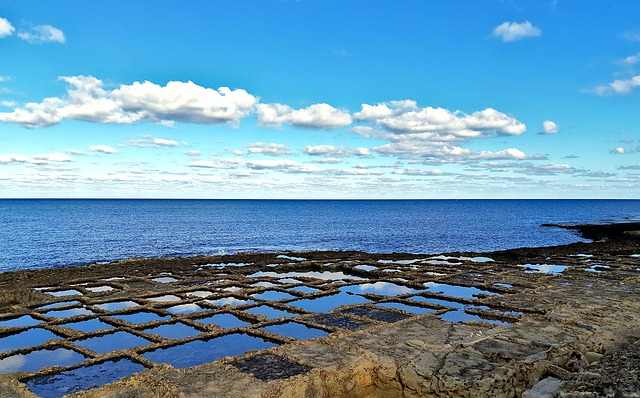
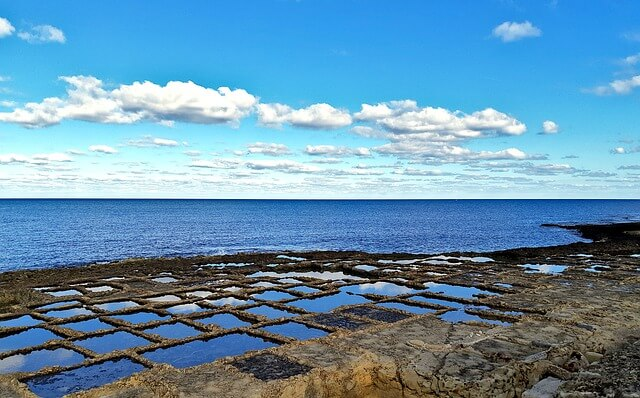
Updated pages with compressed image files

Changed region(s): [[0.75, 0.7236, 0.7812, 0.7538]]

diff --git a/home/templates/home/index.html b/home/templates/home/index.html
@@ -16,15 +16,15 @@
                 <div id="carouselExampleSlidesOnly" class="carousel slide carousel-fade" data-bs-ride="carousel" data-bs-touch="true">
                     <div class="carousel-inner">
                         <div class="carousel-item active">
-                            <img src="{{ MEDIA_URL }}media/catamaran.png"
+                            <img src="{{ MEDIA_URL }}media/catamaran.jpg"
                                 class="d-block w-100 carousel-img" alt="catamaran sailing in the sea">
                         </div>
                         <div class="carousel-item">
-                            <img src="{{ MEDIA_URL }}media/gozo.png"
+                            <img src="{{ MEDIA_URL }}media/gozo.jpg"
                                 class="d-block w-100 carousel-img" alt="gozo island">
                         </div>
                         <div class="carousel-item">
-                            <img src="{{ MEDIA_URL }}media/maltese-boats.png"
+                            <img src="{{ MEDIA_URL }}media/maltese-boats.jpg"
                                 class="d-block w-100 carousel-img" alt="traditional maltese boats">
                         </div>
                     </div>

diff --git a/contact/templates/about/about.html b/contact/templates/about/about.html
@@ -19,7 +19,7 @@
         </div>
         <div class="row">
             <div class="col-md-8 col-sm-12">
-                <img src="{{ MEDIA_URL }}media/sea-cave.jpg" class="img-fluid" alt="sea sea-cave">
+                <img src="{{ MEDIA_URL }}media/blue-lagoon.jpg" class="img-fluid" alt="sea-cave">
             </div>
             <div class="col-md-4 col-sm-12">
                 <h3>Stress Free Vacation</h3>
@@ -44,7 +44,7 @@
         <hr>
         <div class="row">
             <div class="col-md-8 col-sm-12">
-                <img src="{{ MEDIA_URL }}media/speed-boat.jpg" class="img-fluid" alt="speed boat">
+                <img src="{{ MEDIA_URL }}media/speedboat.jpg" class="img-fluid" alt="speed boat">
             </div>
             <div class="col-md-4 col-sm-12">
                 <h3>Collaborate with Us</h3>
